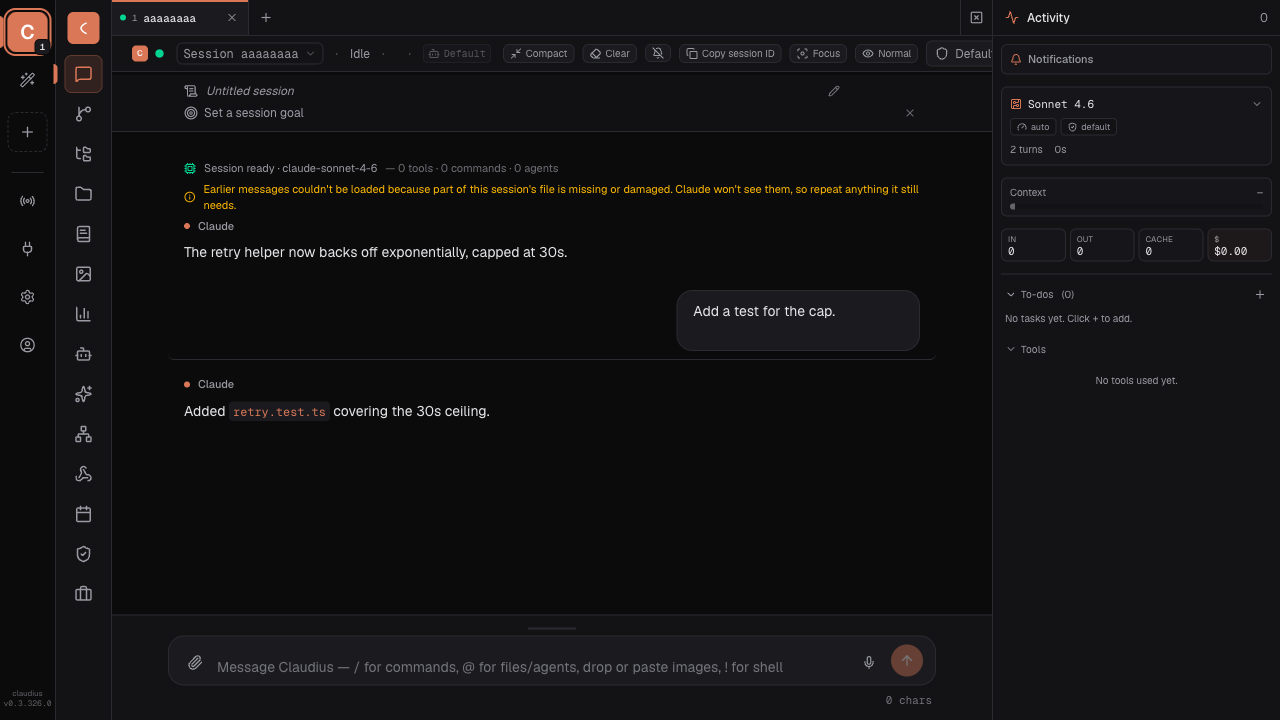
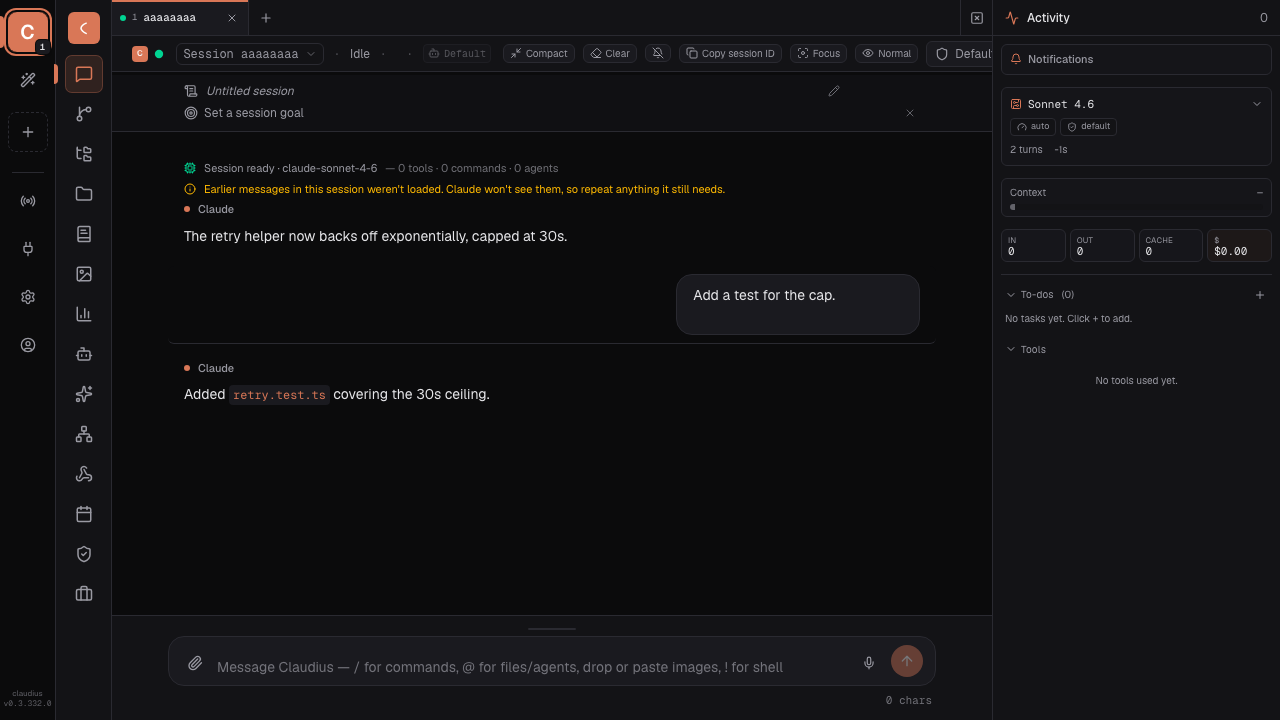
fix(cc-parity): the resume-gap line no longer blames a damaged file (2.1.329)
Claudius's resume-gap row (added for 2.1.327) told the user that part of the session's file was missing or damaged, even when the file was intact. It now uses the engine's own line, "Earlier messages in this session weren't loaded. Claude won't see them, so repeat anything it still needs.", built by a shared helper that also carries the engine's dated variant.

The 2.1.332 engine also sends SDK hosts its own copy of that line, as a system/informational message, on the first prompt after such a resume. When this session already shows its row above the history, Session drops the engine's copy, both live and when it replays one saved in the transcript, so the notice never shows twice. The 2.1.327 e2e spec is updated for the new wording.

diff --git a/tests/e2e/cc-parity-2.1.329-resume-gap-wording.spec.ts b/tests/e2e/cc-parity-2.1.329-resume-gap-wording.spec.ts
@@ -1,0 +1,58 @@
+/**
+ * CC 2.1.329 parity — "Fixed the line about earlier messages on resume
+ * blaming a damaged file when the file was intact".
+ *
+ * Claudius's resume-gap row (2.1.327) said part of the session's file was
+ * "missing or damaged". It now reads the engine's line, which names no cause.
+ * Detection and the 2.1.332 dedupe of the engine's own copy are unit-tested
+ * in tests/unit/cc-parity-2.1.329-resume-gap-wording.test.ts.
+ *
+ * Screenshot target: docs/cc-parity/2.1.329/resume-gap-wording.png
+ */
+
+import { mkdirSync } from "node:fs";
+import { resolve } from "node:path";
+import { test, expect } from "../helpers/test";
+import { activateClaudiusWorkspace } from "./helpers/workspace";
+import { assistantText, initEvent, mockChatBackend, userText } from "./helpers/mock-chat";
+
+const SHOTS_DIR = resolve(process.cwd(), "docs/cc-parity/2.1.329");
+mkdirSync(SHOTS_DIR, { recursive: true });
+
+const SESSION = "aaaaaaaa-bbbb-cccc-dddd-000002329a01";
+const NOTICE =
+  "Earlier messages in this session weren't loaded. Claude won't see them, so repeat anything it still needs.";
+
+test.beforeEach(async ({ page }) => {
+  await activateClaudiusWorkspace(page);
+});
+
+test("the resume-gap line no longer blames a damaged file", async ({ page }) => {
+  await mockChatBackend(page, SESSION, [
+    { type: "ready", sessionId: SESSION },
+    initEvent("sys-init-329g"),
+    {
+      type: "sdk",
+      message: {
+        type: "system",
+        subtype: "informational",
+        level: "warning",
+        content: NOTICE,
+        uuid: `resume-gap-${SESSION}`,
+      },
+    },
+    assistantText("a-7", "The retry helper now backs off exponentially, capped at 30s."),
+    userText("u-8", "Add a test for the cap."),
+    assistantText("a-8", "Added `retry.test.ts` covering the 30s ceiling."),
+    { type: "replay_done", hasMoreAbove: false },
+  ]);
+  await page.goto("/");
+
+  const pill = page.getByTestId("system-pill").filter({ hasText: "weren't loaded" });
+  await expect(pill).toBeVisible({ timeout: 15_000 });
+  await expect(pill).toHaveText(NOTICE);
+  await expect(pill).toHaveAttribute("data-info-level", "warning");
+  await expect(page.getByText("missing or damaged", { exact: false })).toHaveCount(0);
+
+  await page.screenshot({ path: resolve(SHOTS_DIR, "resume-gap-wording.png"), fullPage: false });
+});

diff --git a/tests/unit/cc-parity-2.1.329-resume-gap-wording.test.ts b/tests/unit/cc-parity-2.1.329-resume-gap-wording.test.ts
@@ -1,0 +1,47 @@
+import { describe, expect, test } from "vitest";
+import { RESUME_GAP_NOTICE } from "@/lib/server/session-resume";
+import { isEngineResumeGapNotice, resumeGapNotice } from "@/lib/shared/resume-gap-notice";
+
+/**
+ * CC 2.1.329 — "Fixed the line about earlier messages on resume blaming a
+ * damaged file when the file was intact".
+ * CC 2.1.332 — "Added a notice in VS Code and Desktop's Code tab when a
+ * resumed session's earlier messages weren't loaded".
+ */
+describe("resume-gap notice wording (2.1.329)", () => {
+  test("is the engine's line, which names no cause", () => {
+    expect(RESUME_GAP_NOTICE).toBe(
+      "Earlier messages in this session weren't loaded. Claude won't see them, so repeat anything it still needs.",
+    );
+    expect(RESUME_GAP_NOTICE).not.toMatch(/damaged|missing|file/i);
+  });
+
+  test("the dated lead matches the engine's cut-off variant", () => {
+    expect(resumeGapNotice("Messages in this session from before 3:04 PM")).toBe(
+      "Messages in this session from before 3:04 PM weren't loaded. Claude won't see them, so repeat anything it still needs.",
+    );
+  });
+});
+
+describe("isEngineResumeGapNotice (2.1.332 dedupe)", () => {
+  const info = (content: unknown) => ({ type: "system", subtype: "informational", level: "warning", content });
+
+  test("matches the engine's line in both wordings", () => {
+    expect(isEngineResumeGapNotice(info(RESUME_GAP_NOTICE))).toBe(true);
+    expect(isEngineResumeGapNotice(info(resumeGapNotice("Messages in this session from before Nov 3, 2026")))).toBe(true);
+  });
+
+  test("leaves every other message alone", () => {
+    expect(isEngineResumeGapNotice(info("Hook blocked the prompt."))).toBe(false);
+    expect(isEngineResumeGapNotice(info(undefined))).toBe(false);
+    expect(
+      isEngineResumeGapNotice({ type: "assistant", subtype: "informational", content: RESUME_GAP_NOTICE }),
+    ).toBe(false);
+    expect(isEngineResumeGapNotice({ type: "system", subtype: "init", content: RESUME_GAP_NOTICE })).toBe(false);
+    // Same tail, different subject: not the resume line.
+    expect(
+      isEngineResumeGapNotice(info("Some skills weren't loaded. Claude won't see them, so repeat anything it still needs.")),
+    ).toBe(false);
+    expect(isEngineResumeGapNotice(null)).toBe(false);
+  });
+});

diff --git a/tests/e2e/cc-parity-2.1.327-resume-gap.spec.ts b/tests/e2e/cc-parity-2.1.327-resume-gap.spec.ts
@@ -23,7 +23,7 @@ mkdirSync(SHOTS_DIR, { recursive: true });
 
 const SESSION = "aaaaaaaa-bbbb-cccc-dddd-000002327a01";
 const NOTICE =
-  "Earlier messages couldn't be loaded because part of this session's file is missing or damaged. Claude won't see them, so repeat anything it still needs.";
+  "Earlier messages in this session weren't loaded. Claude won't see them, so repeat anything it still needs.";
 
 const GAP_ROW: SdkEvent = {
   type: "sdk",
@@ -52,7 +52,7 @@ test("a resumed session with a cut history opens with the warning on top", async
   ]);
   await page.goto("/");
 
-  const pill = page.getByTestId("system-pill").filter({ hasText: "Earlier messages couldn't be loaded" });
+  const pill = page.getByTestId("system-pill").filter({ hasText: "Earlier messages in this session weren't loaded" });
   await expect(pill).toBeVisible({ timeout: 15_000 });
   await expect(pill).toHaveText(NOTICE);
   await expect(pill).toHaveAttribute("data-kind", "info");
@@ -101,7 +101,7 @@ test("a long resumed session gets the warning once paging reaches the top", asyn
   await page.goto("/");
 
   await expect(page.getByText("The retry helper now backs off exponentially.")).toBeVisible({ timeout: 15_000 });
-  const pill = page.getByTestId("system-pill").filter({ hasText: "Earlier messages couldn't be loaded" });
+  const pill = page.getByTestId("system-pill").filter({ hasText: "Earlier messages in this session weren't loaded" });
   await expect(pill).toHaveCount(1);
   await expect(pill).toHaveAttribute("data-info-level", "warning");
 });
@@ -116,5 +116,5 @@ test("a healthy resumed session has no warning", async ({ page }) => {
   ]);
   await page.goto("/");
   await expect(page.getByText("Added the retry helper.")).toBeVisible({ timeout: 15_000 });
-  await expect(page.getByText("Earlier messages couldn't be loaded", { exact: false })).toHaveCount(0);
+  await expect(page.getByText("Earlier messages in this session weren't loaded", { exact: false })).toHaveCount(0);
 });

diff --git a/lib/server/session.ts b/lib/server/session.ts
@@ -1,5 +1,6 @@
 import { createHash, randomUUID } from "node:crypto";
 import { stampUserRejectedToolResults } from "@/lib/shared/user-rejected-stamp";
+import { isEngineResumeGapNotice } from "@/lib/shared/resume-gap-notice";
 import { withGoalMcpServer, withoutGoalMcpServer } from "./mcp-in-process";
 import { watch as watchFs, readFileSync, type FSWatcher, promises as fsp } from "node:fs";
 import { homedir } from "node:os";
@@ -2902,6 +2903,9 @@ export class Session {
         let firstReplayError: string | undefined;
         const forked = await forkLineage;
         for (const m of historical) {
+          // CC 2.1.332 — an engine copy of the line saved by an earlier
+          // resume; this one already put its own above the history.
+          if (this.resumeGap && isEngineResumeGapNotice(m)) continue;
           const ts = (m as { timestamp?: string }).timestamp;
           const parsed = typeof ts === "string" ? Date.parse(ts) : NaN;
           let at: number | undefined;
@@ -9899,6 +9903,11 @@ export class Session {
     let sawError = false;
     try {
       for await (const raw of this.query as AsyncIterable<SDKMessage>) {
+        // CC 2.1.332 — "Added a notice in VS Code and Desktop's Code tab when
+        // a resumed session's earlier messages weren't loaded". This session
+        // already shows that line above the history (`resumeGap`), so drop
+        // the engine's copy instead of showing it twice.
+        if (this.resumeGap && isEngineResumeGapNotice(raw)) continue;
         // CC 2.1.323 — mark results of calls the user denied as
         // `user-rejected` (the engine stamps a host deny `permission-rule`).
         const message = stampUserRejectedToolResults(raw, this.userRejectedToolUseIds);

diff --git a/lib/shared/resume-gap-notice.ts b/lib/shared/resume-gap-notice.ts
@@ -1,0 +1,31 @@
+/**
+ * CC 2.1.329 — "Fixed the line about earlier messages on resume blaming a
+ * damaged file when the file was intact". The engine's sentence (`fOi()` in
+ * the 2.1.332 bundle), with its optional dated lead ("Messages in this
+ * session from before <time>").
+ */
+const TAIL = " weren't loaded. Claude won't see them, so repeat anything it still needs.";
+
+export function resumeGapNotice(lead = "Earlier messages in this session"): string {
+  return `${lead}${TAIL}`;
+}
+
+/**
+ * CC 2.1.332 — "Added a notice in VS Code and Desktop's Code tab when a
+ * resumed session's earlier messages weren't loaded". The engine now sends SDK
+ * hosts the same line as a `system`/`informational` message on the first
+ * prompt after such a resume. True for that message, in either wording, so a
+ * session that already shows its own resume-gap row can drop the second copy.
+ */
+export function isEngineResumeGapNotice(msg: unknown): boolean {
+  if (!msg || typeof msg !== "object") return false;
+  const m = msg as { type?: unknown; subtype?: unknown; content?: unknown };
+  return (
+    m.type === "system" &&
+    m.subtype === "informational" &&
+    typeof m.content === "string" &&
+    m.content.endsWith(TAIL) &&
+    (m.content.startsWith("Earlier messages in this session") ||
+      m.content.startsWith("Messages in this session from before "))
+  );
+}

diff --git a/lib/server/session-resume.ts b/lib/server/session-resume.ts
@@ -8,6 +8,7 @@ import {
   pickRecordedPermissionMode,
   readPermissionModeRecord,
 } from "@/lib/shared/permission-mode-record";
+import { resumeGapNotice } from "@/lib/shared/resume-gap-notice";
 import { jsonlLines } from "./jsonl-lines";
 import { sessionManager } from "./session-manager";
 import { info as sessionFileInfo } from "./sessions-store";
@@ -83,9 +84,12 @@ export async function lastRecordedPermissionModeAt(
 /**
  * CC 2.1.327 — "Added a line when a resumed session's earlier messages can't
  * be loaded". The CLI's copy, shown once at the top of the reopened history.
+ *
+ * CC 2.1.329 — "Fixed the line about earlier messages on resume blaming a
+ * damaged file when the file was intact": the old copy said part of the file
+ * was "missing or damaged"; the engine's line no longer names a cause.
  */
-export const RESUME_GAP_NOTICE =
-  "Earlier messages couldn't be loaded because part of this session's file is missing or damaged. Claude won't see them, so repeat anything it still needs.";
+export const RESUME_GAP_NOTICE = resumeGapNotice();
 
 /** One transcript row, reduced to what the cut-off rule reads. */
 type LinkRow = {
